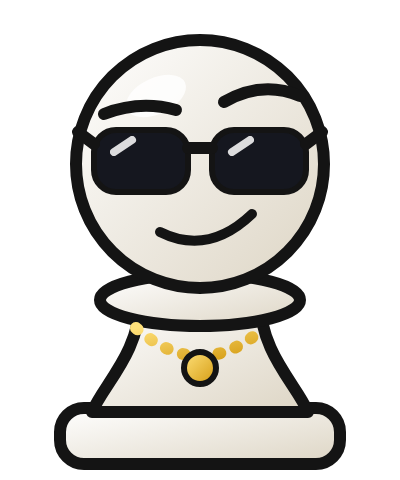
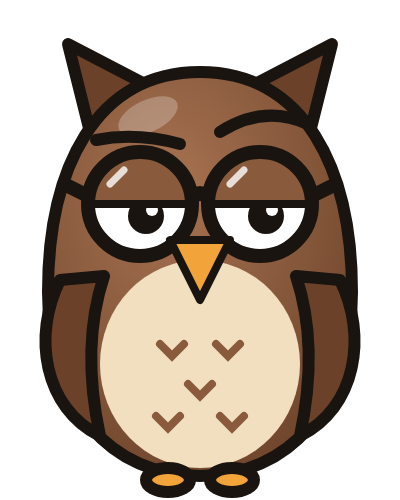
chess-rater: owl coach, deeper narrator, music bed, example-style sounds
- Replace the pawn coach with an owl in big round glasses (smug
  half-lidded eyes on good moves, wide shook eyes on bad ones; the beak
  opens in three steps for lip-sync).
- Series narrator is now a 50/50 blend of Kokoro am_michael and
  am_fenrir, lowered 1.5 semitones: deeper, but still expressive.
- Background music under every commentary freeze and the outro,
  continuing across freezes, ~16 dB under the voice: "Be Chillin" by
  Alexander Nakarada (FreePD, CC0), downloaded on first render.
- chess.com sounds follow the example edits: move sounds for ordinary
  moves, capture for best/great/brilliant/mistake/blunder, castle for
  book moves, a "correct" chime when a great or brilliant card lands,
  game-start when the Game Review opens. No sound at the very start.
- The hook now hard-cuts back to the start (no rewind effect or icon).

Claude-Session: https://claude.ai/code/session_0191FxL3gznTFuEVCnR41hVc

diff --git a/chess-rater/chessrate.py b/chess-rater/chessrate.py
@@ -53,8 +53,12 @@ CLASSES = {
 }
 
 LEAD_IN = "Right."  # spoken first and cut off; the model reliably pauses after it
-# the series narrator: a blend of two Kokoro voices, raised two semitones to suit the pawn coach
-SERIES_VOICE = "am_puck:0.5+am_fenrir:0.5"
+# the series narrator: a blend of two Kokoro voices, lowered 1.5 semitones (formants kept)
+SERIES_VOICE = "am_michael:0.5+am_fenrir:0.5"
+SERIES_PITCH = -1.5
+# background music under the commentary: "Be Chillin" by Alexander Nakarada (FreePD, CC0 public domain)
+MUSIC_URL = ("https://archive.org/download/allfreepdmusicbykuronekony4n/content/drive/My%20Drive/Download/"
+             "all%20freepd%20music%20%28by%20kuronekony4n%29/Be%20Chillin.mp3")
 COACH_DIR = os.path.join(HERE, "assets", "coach")
 
 POSITIVE = {"brilliant", "great", "best", "excellent", "good", "book"}
@@ -386,8 +390,8 @@ def speakable(text):
 class Voice:
     def __init__(self, cfg, models_dir, enabled, cache_dir):
         self.voice = cfg.get("voice", SERIES_VOICE)
-        self.speed = float(cfg.get("speed", 1.12))
-        self.pitch = float(cfg.get("pitch", 2.0 if self.voice == SERIES_VOICE else 0.0))
+        self.speed = float(cfg.get("speed", 1.1))
+        self.pitch = float(cfg.get("pitch", SERIES_PITCH if self.voice == SERIES_VOICE else 0.0))
         self.lang = cfg.get("lang", "en-us")
         self.cache_dir = cache_dir
         self.kokoro = None
@@ -540,7 +544,7 @@ def load_sound(name, folder):
 
 @dataclass
 class Span:
-    kind: str  # play | hold | rewind
+    kind: str  # play | hold
     t0: float
     t1: float
     s0: float
@@ -550,9 +554,6 @@ class Span:
     def src(self, t):
         if self.kind == "play":
             return self.s0 + (t - self.t0)
-        if self.kind == "rewind":
-            u = math.floor(clamp((t - self.t0) / (self.t1 - self.t0), 0, 1) * 14) / 14
-            return self.s0 + (self.s1 - self.s0) * ease_in_out(u)
         return self.s0
 
 
@@ -640,11 +641,12 @@ class Project:
             show = Show(len(self.shows), move, sp.t0, sp.t1, True, blur, words)
             self.shows.append(show)
             self.sfx.append((sp.t0, self.move_sound(move)))
+            if move["class"] in ("brilliant", "great") and not blur:
+                self.sfx.append((sp.t0 + lead + len(audio) / SR + 0.05, "correct"))  # chime as the line lands
             if "eval" in move:
                 self.evals.append((sp.t0, move["eval"], True))
             return sp
 
-        main_start = self.segments[0][0]
         hook = cfg.get("hook")
         if hook:
             hook_move = self.find_move(hook["move"])
@@ -652,10 +654,7 @@ class Project:
             self.evals.append((0.0, prior[-1] if prior else 0.0, False))
             play(hook["from"], hook_move["t"], "hook")
             card_hold(hook_move, "hook", hook.get("vo", ""), blur=True)
-            self.spans.append(Span("rewind", t, t + 0.8, hook_move["t"], main_start, "hook"))
-            self.evals.append((t, 0.0, True))
-            self.sfx.append((t, "premove"))
-            t += 0.8
+            self.evals.append((t, 0.0, False))  # hard cut back to the start, like the example edits
         else:
             self.evals.append((0.0, 0.0, False))
 
@@ -703,11 +702,7 @@ class Project:
             if sp.t0 >= self.review_t - 1e-6 and sp.phase == "main":
                 sp.phase = "review"
         self.duration = t
-        self.sfx.append((0.0, "game-start"))
-        if not any(name == "game-end" and self.review_t - 4 <= at <= self.review_t for at, name in self.sfx):
-            self.sfx.append((self.review_t, "game-end"))
-        else:
-            self.sfx.append((self.review_t, "notify"))
+        self.sfx.append((self.review_t, "game-start"))
         # each move stays on screen until the next one appears
         self.shows.sort(key=lambda s: s.t0)
         for a, b in zip(self.shows, self.shows[1:]):
@@ -723,12 +718,17 @@ class Project:
 
     @staticmethod
     def move_sound(move):
+        """chess.com sound for a move, used the way the example edits do: a plain move for ordinary
+        moves, a capture for the big ones, castling for openers and check for a miss."""
+        cls = move["class"]
         if isinstance(move.get("eval"), str) and move["eval"] in ("1-0", "0-1"):
             return "game-end"
-        if move.get("comment"):
-            return "capture" if move["class"] in POSITIVE else "move-check"
-        if move["class"] not in POSITIVE:
-            return "move-check" if move["class"] in ("mistake", "blunder") else "move-opponent"
+        if cls == "book":
+            return "castle"
+        if cls == "miss":
+            return "move-check"
+        if cls in ("best", "great", "brilliant", "mistake", "blunder"):
+            return "capture"
         return "move-self" if move["side"] == "white" else "move-opponent"
 
     def find_move(self, name):
@@ -989,17 +989,6 @@ class Renderer:
         self.cache[key] = out
         return out
 
-    def rewind_icon(self):
-        if "rewind" not in self.cache:
-            img = Image.new("RGBA", (220, 140), (0, 0, 0, 0))
-            m = Image.new("L", (220 * 3, 140 * 3), 0)
-            d = ImageDraw.Draw(m)
-            for x0 in (30, 110):
-                d.polygon([((x0 + 80) * 3, 20 * 3), ((x0 + 80) * 3, 120 * 3), (x0 * 3, 70 * 3)], fill=255)
-            paint(img, m.resize((220, 140), Image.LANCZOS), (0, 0), (255, 255, 255, 235))
-            self.cache["rewind"] = with_shadow(img, 10, 170)
-        return self.cache["rewind"]
-
     # ---- per-frame
     def eval_at(self, t):
         prev, cur, kt, animate = 0.0, 0.0, 0.0, False
@@ -1133,8 +1122,6 @@ class Renderer:
             k = ease_out((t - sp.t0) / 0.35)
             bright = 1 - 0.16 * k
             zoom = 1 + 0.045 * ease_in_out((t - sp.t0) / max(0.01, sp.t1 - sp.t0))
-        elif sp.kind == "rewind":
-            bright = 0.72
         if in_review:
             k = ease_out((t - p.review_t) / 0.45)
             bright, blur = 1 - 0.42 * k, 9 * k
@@ -1149,7 +1136,7 @@ class Renderer:
             img = img.filter(ImageFilter.GaussianBlur(blur))
         clip = img.convert("RGBA")
 
-        if not in_review and sp.kind != "rewind":
+        if not in_review:
             for lb in p.labels:
                 if lb["from"] <= src_t < lb["to"]:
                     li = self.label(lb["text"])
@@ -1163,9 +1150,6 @@ class Renderer:
         for show in p.shows:
             if show.t0 <= t < show.t1:
                 self.draw_show(clip, show, t)
-        if sp.kind == "rewind":
-            ri = self.rewind_icon()
-            alpha_paste(clip, ri, ((self.cw - ri.width) / 2, (self.ch - ri.height) / 2))
         if in_review:
             age = t - p.review_t
             rows = int(clamp((age - 0.35) / 0.08, 0, len(CLASSES) + 1))
@@ -1231,7 +1215,54 @@ def build_audio(p, t_from, t_to):
                 cache[name] = load_sound(name, folder)
             place(fx, at, cache[name], gain)
     mix = scene * duck[:, None] + (vo * 1.0 + fx)[:, None]
+    bed = music_bed(p, n, t_from, vo)
+    if bed is not None:
+        mix += bed[:, None]
     return np.clip(mix, -1, 1)
+
+
+def music_bed(p, n, t_from, vo):
+    """Background music under the commentary: it plays during every freeze and the outro, picking up
+    where it left off each time, about 16 dB under the voice-over."""
+    cfg = p.cfg.get("music", {})
+    if cfg is False or (isinstance(cfg, dict) and not cfg.get("enabled", True)):
+        return None
+    cfg = cfg if isinstance(cfg, dict) else {}
+    path = os.path.join(p.base, cfg["file"]) if cfg.get("file") else os.path.join(HERE, "music", "be-chillin.mp3")
+    if not os.path.exists(path):
+        if cfg.get("file"):
+            sys.exit(f"music file not found: {path}")
+        print("downloading background music (one time)...")
+        os.makedirs(os.path.dirname(path), exist_ok=True)
+        urllib.request.urlretrieve(MUSIC_URL, path + ".part")
+        os.replace(path + ".part", path)
+    raw = run(["ffmpeg", "-v", "error", "-i", path, "-ac", "1", "-ar", str(SR), "-f", "f32le", "-"],
+              capture_output=True).stdout
+    track = np.frombuffer(raw, np.float32)
+    track = track[int(float(cfg.get("start", 0)) * SR):]
+    speech = vo[np.abs(vo) > 0.01]
+    if not len(track) or not len(speech):
+        return None
+    rms = lambda x: float(np.sqrt(np.mean(x ** 2))) + 1e-9
+    gain = rms(speech) * 10 ** (float(cfg.get("level_db", -16)) / 20) / rms(track)
+    windows = [(sp.t0, sp.t1) for sp in p.spans if sp.kind == "hold" and sp.phase != "review"]
+    windows.append((p.review_t, p.duration))
+    bed = np.zeros(n, np.float32)
+    pos = 0
+    for a, b in sorted(windows):
+        i0, i1 = int(round((a - t_from) * SR)), int(round((b - t_from) * SR))
+        length = i1 - i0
+        if length <= 0:
+            continue
+        seg = np.take(track, np.arange(pos, pos + length), mode="wrap") * gain
+        fin, fout = min(length // 2, int(0.3 * SR)), min(length // 2, int(0.5 * SR))
+        seg[:fin] *= np.linspace(0, 1, fin)
+        seg[-fout:] *= np.linspace(1, 0, fout)
+        pos += length
+        j0, j1 = max(0, -i0), min(length, n - i0)
+        if j1 > j0:
+            bed[i0 + j0:i0 + j1] += seg[j0:j1]
+    return bed
 
 
 def write_wav(path, stereo):

diff --git a/chess-rater/README.md b/chess-rater/README.md
@@ -10,10 +10,13 @@ commentary). It renders a finished 1080×1920 MP4 with:
 - move badges (`!!` brilliant, `!` great, ★ best, 👍 excellent, ✓ good, 📖 book, `?!`, `?`, ✕, `??`)
 - freeze frames with a commentary card, read aloud by an AI voice in chess.com Game Review
   coach style ("The Kiss is brilliant!") while the words light up
-- a coach character (a cocky pawn in sunglasses) that pops up on each rating banner and
+- a coach character (an owl in big round glasses) that pops up on each rating banner and
   lip-syncs to the narrator: smug on good moves, shook on bad ones
-- the official chess.com move, capture, check and game start/end sounds
-- a cold-open hook that teases the big move, then rewinds to the start
+- background music under the commentary
+- the official chess.com sounds, used the way popular edits do: a plain move sound for normal
+  moves, capture for the big ones, castling for openers, a chime when a great or brilliant card
+  lands, and game-start when the Game Review opens
+- a cold-open hook that teases the big move, then cuts back to the start
 - a closing **Game Review** with accuracy scores, move counts and the result
 
 Everything runs locally and needs no paid services. The voice-over uses
@@ -28,8 +31,12 @@ Everything runs locally and needs no paid services. The voice-over uses
    pip install -r requirements.txt
    ```
 
-The first render downloads the voice model (about 340 MB) into `models/` and the chess.com
-sound files into `sounds/`. The sounds are fetched from chess.com's site and aren't stored in
+The first render downloads the voice model (about 340 MB) into `models/`, the chess.com
+sound files into `sounds/`, and the background music into `music/`. The music is
+"Be Chillin" by Alexander Nakarada, released into the public domain (CC0) on FreePD, so it's
+free to use in posted videos. Use `"music": {"file": "my-track.mp3"}` for your own track,
+`"level_db"` to set how far it sits under the voice (default −16 dB), or `"music": false` to
+turn it off. The sounds are fetched from chess.com's site and aren't stored in
 this repo. Set `"sfx": false` to turn them off, or point `"sounds"` at a folder with your own
 `move-self.mp3`, `capture.mp3`, and so on.
 
@@ -77,10 +84,11 @@ of the video frame: `0,0` is top-left and `1,1` is bottom-right.
 {
   "source": "../clips/suits-mike-rachel.mp4",
   "title": {"text": "I rated Mike and Rachel's late-night kiss", "accent": "like a chess game"},
-  "voice": "am_puck:0.5+am_fenrir:0.5",  // the series narrator: a blend of two Kokoro voices ...
-  "pitch": 2,                     // ... raised 2 semitones (formants kept) to suit the pawn coach
-  "speed": 1.12,
-  "coach": {"enabled": true, "size": 220},  // the pawn character on the rating banners
+  "voice": "am_michael:0.5+am_fenrir:0.5",  // the series narrator: a blend of two Kokoro voices ...
+  "pitch": -1.5,                  // ... lowered 1.5 semitones (formants kept) for a deeper sound
+  "speed": 1.1,
+  "coach": {"enabled": true, "size": 220},  // the owl on the rating banners
+  "music": {"level_db": -16},     // background music under the commentary
   "coach_intro": true,            // voice-over opens like the chess.com coach: "In Here is a great move!"
   "sfx_volume": 0.7,              // chess.com sounds: move/capture on badges, check on bad cards, game start/end
   "crop": "auto",                 // trims letterbox bars; or [w, h, x, y]; or false
@@ -119,7 +127,7 @@ of the video frame: `0,0` is top-left and `1,1` is bottom-right.
 - **`card`** is `"right"` (the default) or `"left"`. Cards sit along the bottom of the clip, and
   a left card briefly hides the bottom player tag. Pick the side that keeps faces visible.
 - **`voice`** can be one Kokoro voice (`"am_fenrir"`) or a weighted blend
-  (`"am_puck:0.5+am_fenrir:0.5"`). Leave out `voice` and `pitch` to get the series narrator.
+  (`"am_michael:0.5+am_fenrir:0.5"`). Leave out `voice` and `pitch` to get the series narrator.
   Keep the same voice across videos so the account has one recognisable host.
 - **The coach** sprites are in `assets/coach/`. To restyle the character, edit
   `tools/coach_sprites.cjs` (plain SVG) and run `node tools/coach_sprites.cjs` (needs Playwright).
